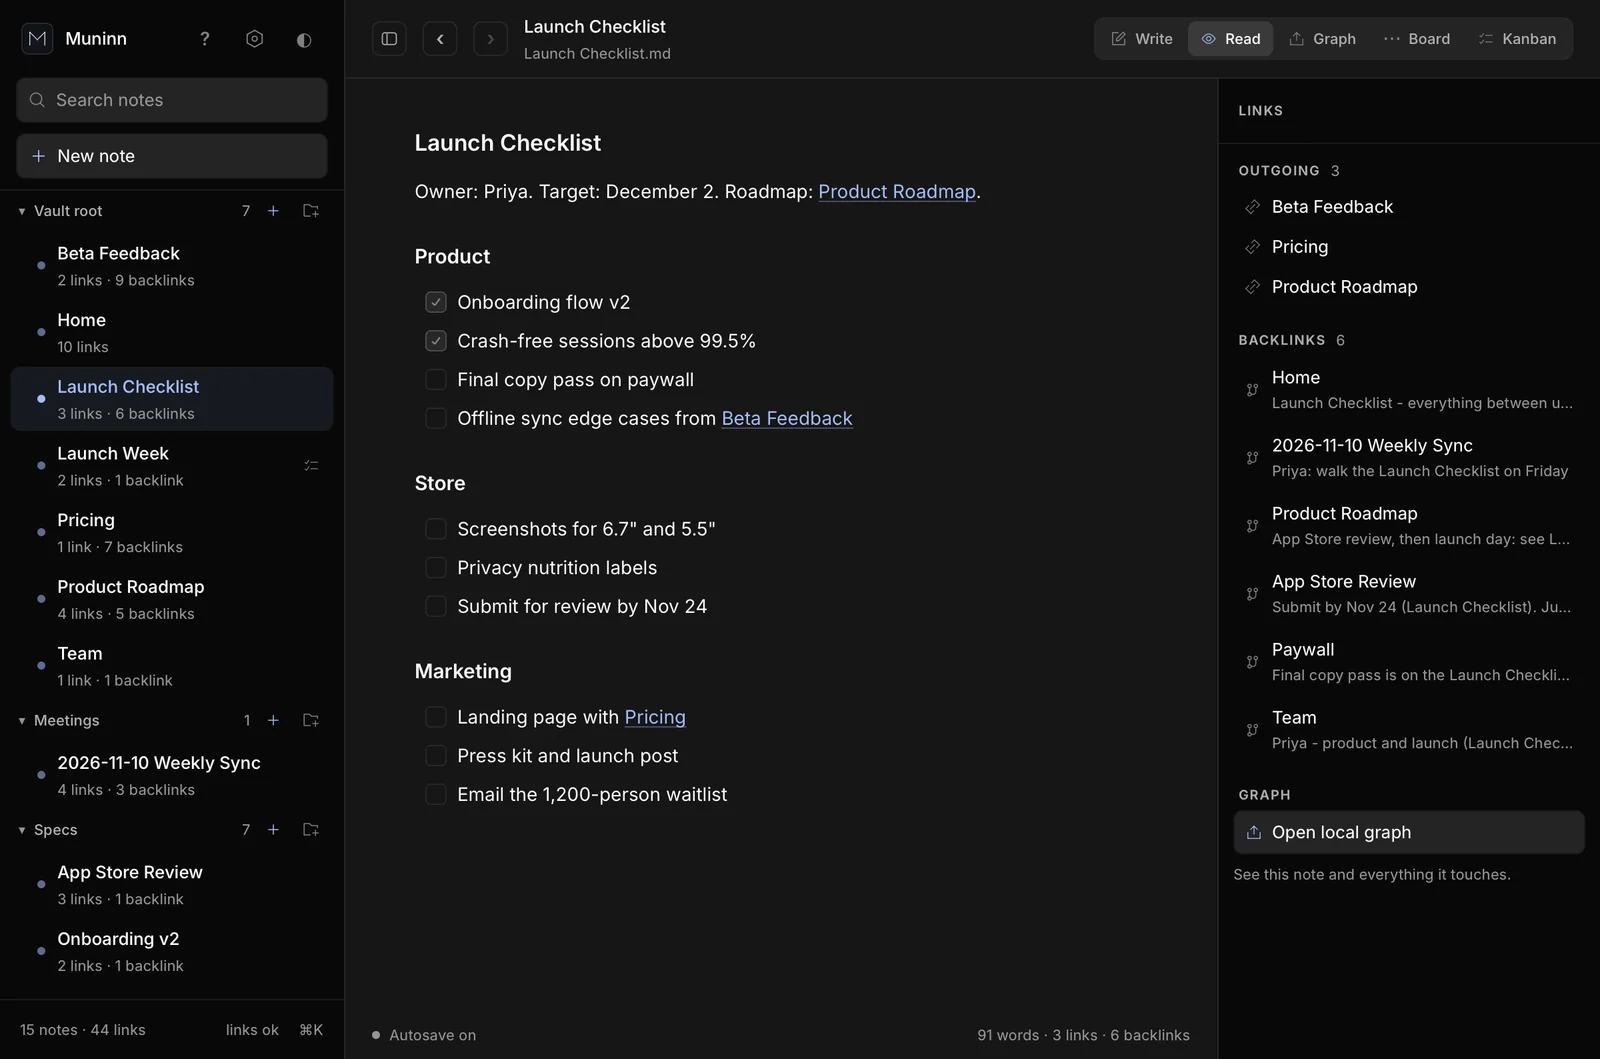
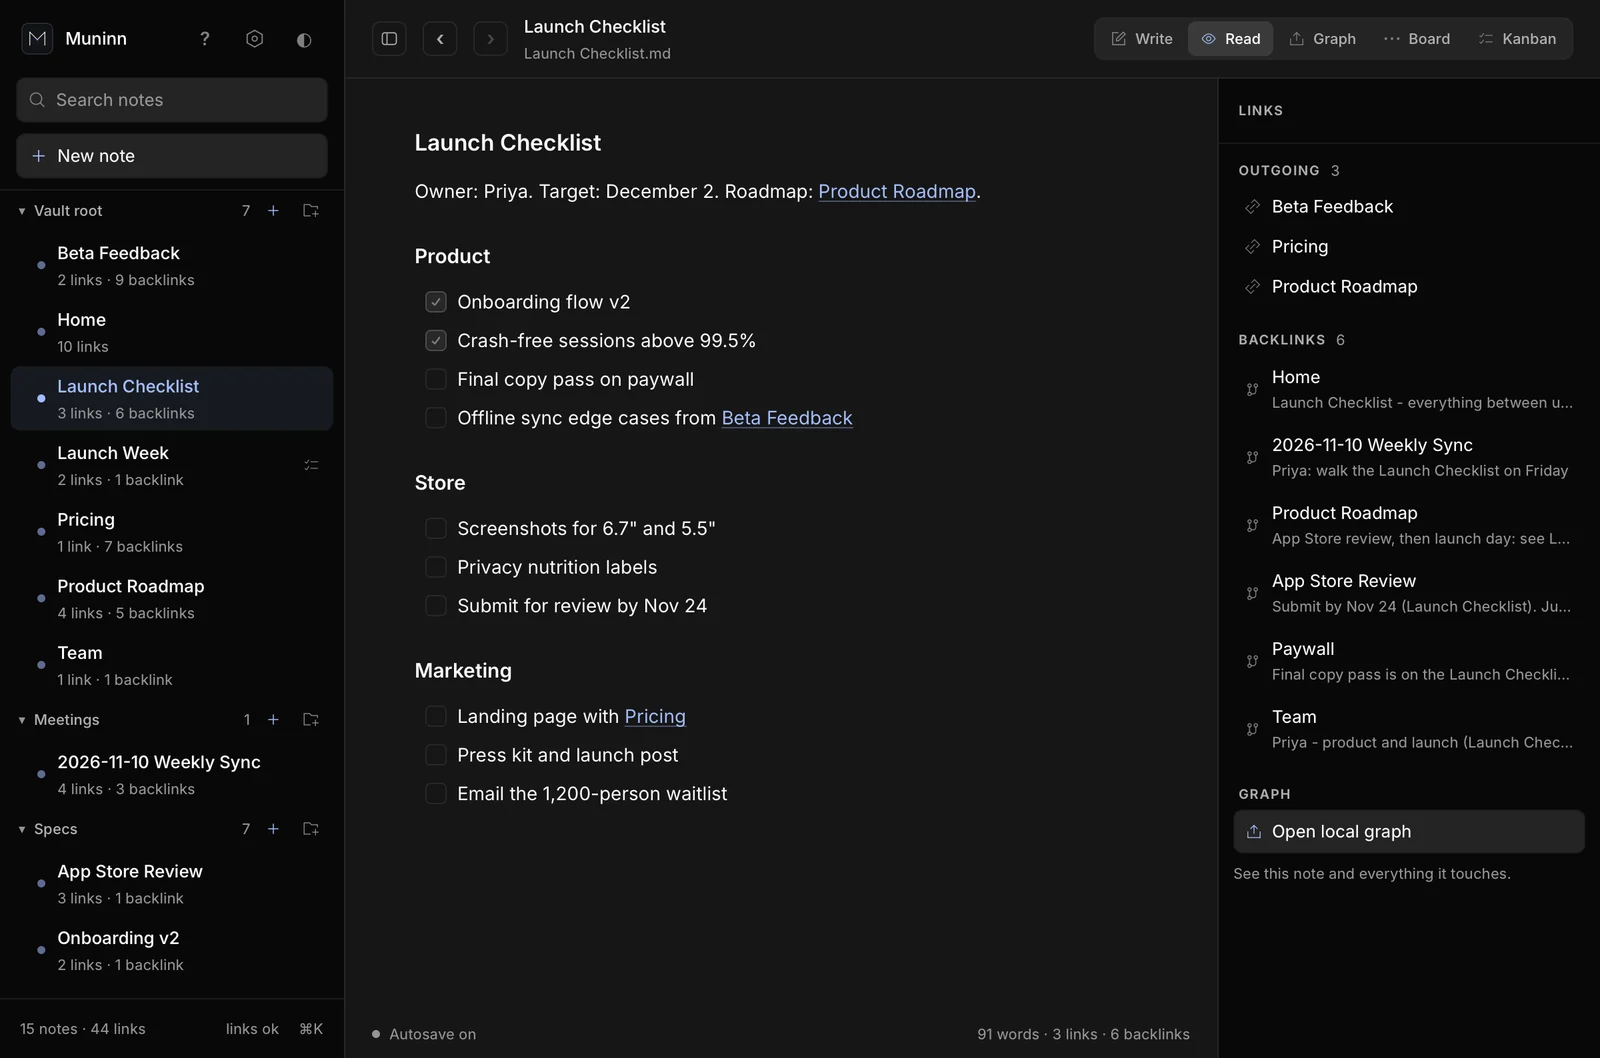
site: harden W6 capture fetch and fix preview height
Pin https URLs and sha256s for the runtime .debs, require sigstore
identity verification, and refuse a URL override without a matching
hash. Re-encode preview-1600.webp to 1600x1058 from the v0.8.2
masters. Allowlist the app environment, kill a stuck ffmpeg, and
cover the remaining W6 nits (webm codecs, gitattributes, light
WebM smoke).

diff --git a/site/src/scripts/main.js b/site/src/scripts/main.js
@@ -32,7 +32,7 @@
     video.removeAttribute('src');
     while (video.firstChild) video.removeChild(video.firstChild);
     var webm = document.createElement('source');
-    webm.type = 'video/webm';
+    webm.type = 'video/webm; codecs=vp9';
     webm.src = base + '.webm';
     var mp4 = document.createElement('source');
     mp4.type = 'video/mp4';

diff --git a/site/scripts/capture/xdrive.py b/site/scripts/capture/xdrive.py
@@ -41,10 +41,16 @@ class Session:
         xvfb = subprocess.Popen(["Xvfb", disp, "-screen", "0", f"{sw}x{sh}x24", "-nolisten", "tcp", "-noreset"],
                                 stdout=subprocess.DEVNULL, stderr=subprocess.DEVNULL, start_new_session=True)
         self.procs.append(xvfb)
+        up = False
         for _ in range(50):
+            if xvfb.poll() is not None:
+                raise SystemExit(f"Xvfb {disp} exited before the display came up (code {xvfb.returncode})")
             if os.path.exists(f"/tmp/.X11-unix/X{n}"):
+                up = True
                 break
             time.sleep(0.1)
+        if not up:
+            raise SystemExit(f"Xvfb {disp} did not come up")
         env = self.env()
         assert env["DISPLAY"] == disp and "WAYLAND_DISPLAY" not in env
         cmd = list(cfg.get("loader", [])) + [cfg["bin"], "--new-instance", "--vault", vault, "--theme", self.theme]
@@ -60,9 +66,9 @@ class Session:
 
     def env(self):
         cfg, r = self.cfg, os.path.join(self.cfg["root"], "run")
-        env = {k: v for k, v in os.environ.items()
-               if k not in ("WAYLAND_DISPLAY", "MUNINN_VAULT", "MUNINN_GOOGLE_CLIENT_SECRET",
-                            "DBUS_SESSION_BUS_ADDRESS", "XDG_SESSION_TYPE", "SESSION_MANAGER")}
+        # Allowlist only: never pass GH_TOKEN, GITHUB_TOKEN or other caller secrets through.
+        env = {k: os.environ[k] for k in ("PATH", "LANG", "LC_ALL", "LC_CTYPE", "LANGUAGE", "TZ")
+               if k in os.environ}
         dirs = dict(HOME="home", XDG_CONFIG_HOME="config", XDG_DATA_HOME="data", XDG_STATE_HOME="state",
                     XDG_CACHE_HOME="cache", XDG_RUNTIME_DIR="xdg-runtime", TMPDIR="tmp")
         for k, sub in dirs.items():
@@ -231,14 +237,42 @@ class Session:
              "-framerate", str(fps), "-video_size", f"{w}x{h}", "-i", self.cfg["display"],
              "-c:v", "libx264rgb", "-crf", "0", "-preset", "ultrafast", path],
             stdin=subprocess.PIPE, start_new_session=True)
+        self.procs.append(self.rec)
         self.rec_path, self.rec_t0 = path, time.monotonic()
         time.sleep(0.6)
 
     def mark(self):
         return time.monotonic() - self.rec_t0
 
+    def _kill_pg(self, proc, sig):
+        if proc.poll() is not None:
+            return
+        try:
+            os.killpg(proc.pid, sig)
+        except ProcessLookupError:
+            pass
+
     def stop_record(self):
-        self.rec.stdin.write(b"q"); self.rec.stdin.flush()
-        self.rec.wait(30)
+        rec = self.rec
+        if not rec:
+            return
+        try:
+            if rec.poll() is None and rec.stdin:
+                rec.stdin.write(b"q")
+                rec.stdin.flush()
+            rec.wait(30)
+        except (subprocess.TimeoutExpired, BrokenPipeError, OSError):
+            self._kill_pg(rec, signal.SIGTERM)
+            try:
+                rec.wait(5)
+            except subprocess.TimeoutExpired:
+                self._kill_pg(rec, signal.SIGKILL)
+                rec.wait()
+        finally:
+            if rec.stdin:
+                try:
+                    rec.stdin.close()
+                except OSError:
+                    pass
+            self.rec = None
         log("recorded", self.rec_path)
-        self.rec = None

diff --git a/site/scripts/capture/encode.py b/site/scripts/capture/encode.py
@@ -43,9 +43,17 @@ def probe(path):
     return st["width"], st["height"], float(j["format"]["duration"]), st["codec_name"]
 
 
+def scale_size(src_w, src_h, width):
+    """Width x even height, same rounding as ffmpeg scale=W:-2."""
+    h = int(src_h * width / src_w)  # floor
+    if h % 2:
+        h -= 1
+    return width, max(h, 2)
+
+
 def save_still(src, dst_base, width):
     im = Image.open(src).convert("RGB")
-    h = round(im.height * width / im.width)
+    width, h = scale_size(im.width, im.height, width)
     im = im.resize((width, h), Image.LANCZOS)
     im.save(dst_base + ".png", optimize=True)
     im.save(dst_base + ".webp", quality=86, method=6)
@@ -114,7 +122,7 @@ def main():
                 dd = os.path.join(out, "dropin", "site", "public", "assets", "img", theme)
                 os.makedirs(dd, exist_ok=True)
                 im = Image.open(png).convert("RGB")
-                im = im.resize((1600, round(im.height * 1600 / im.width)), Image.LANCZOS)
+                im = im.resize(scale_size(im.width, im.height, 1600), Image.LANCZOS)
                 f = os.path.join(dd, DROPIN_IMG[name] + ".webp")
                 im.save(f, quality=86, method=6)
                 add(f, kind="dropin-still", theme=theme, scene=name)

diff --git a/site/scripts/capture/README.md b/site/scripts/capture/README.md
@@ -8,10 +8,12 @@ CAPTURE_FETCH_RUNTIME=1 site/scripts/capture/capture.sh /path/to/scratch v0.8.2
 ```
 
 It downloads `muninn_<tag>_linux_x86_64.tar.gz` with `gh`, checks it against
-`checksums.txt` (and the cosign bundle when `sigstore` is installed), builds the
+`checksums.txt`, and verifies the cosign bundle with
+`sigstore verify identity` (workflow identity pinned to
+`release.yml@refs/tags/<tag>`). The sigstore check is required unless you pass
+`MUNINN_BIN=/path/muninn` or set `CAPTURE_SKIP_SIGSTORE=1`. It then builds the
 synthetic **Tidepool** vault (`make_vault.py`: a fake habit-tracker startup, no
 real data, 0 broken links), drives the app, and encodes the results.
-`MUNINN_BIN=/path/muninn` skips the download.
 
 | File | What it does |
 |---|---|
@@ -28,10 +30,12 @@ real data, 0 broken links), drives the app, and encodes the results.
 - `HOME`, `XDG_CONFIG_HOME`, `XDG_DATA_HOME`, `XDG_STATE_HOME`, `XDG_CACHE_HOME`,
   `XDG_RUNTIME_DIR` (0700) and `TMPDIR` under `WORKDIR/run/<scene>-<theme>/`,
   a fresh vault per scene, `dbus-run-session`, always `--new-instance`.
-- `WAYLAND_DISPLAY`, `DBUS_SESSION_BUS_ADDRESS`, `MUNINN_VAULT` and
-  `MUNINN_GOOGLE_CLIENT_SECRET` are removed from the app's environment.
+- The app is started with an environment allowlist (`PATH`, locale, `TZ`, plus
+  the throwaway dirs and the display/Vulkan vars we set). Caller secrets such
+  as `GH_TOKEN` and `GITHUB_TOKEN` are not passed through.
 - Every process it starts runs in its own session and is stopped by process
-  group; nothing else is signalled.
+  group; nothing else is signalled. Xvfb must come up before the app starts;
+  a stuck ffmpeg is killed if it ignores the stop timeout.
 
 ## Rendering
 
@@ -41,9 +45,13 @@ published at 1600x1000 and 960x600). The hero and its poster use 1200x794, which
 publishes at 1600x1058, the size the site already uses.
 
 The release binaries link `GLIBC_2.43` (built on `ubuntu-latest`). On an older
-host, `CAPTURE_FETCH_RUNTIME=1` unpacks Debian's `libc6` 2.43 and
-`mesa-vulkan-drivers` into `WORKDIR/tools` and starts the binary through that
-`ld-linux` with `--library-path`. Nothing is installed system-wide.
+host, `CAPTURE_FETCH_RUNTIME=1` fetches Debian's `libc6` 2.43 and
+`mesa-vulkan-drivers` over **https**, checks a pinned sha256 (and, when
+`debian-archive-keyring` is present, Debian's signed `InRelease`/`Packages`),
+unpacks them into `WORKDIR/tools`, and starts the binary through that
+`ld-linux` with `--library-path`. Nothing is installed system-wide. A URL
+override (`LIBC6_DEB_URL` / `MESA_VK_DEB_URL`) is refused unless the matching
+`*_SHA256` is also set.
 
 ## Budgets
 
